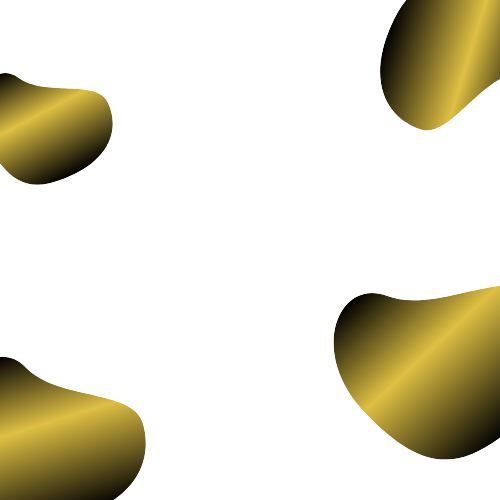
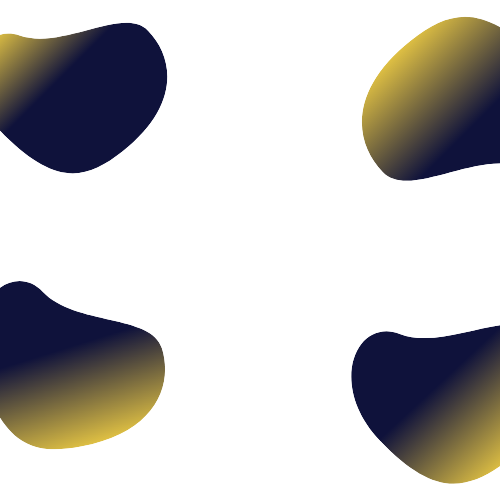
CSS: 추가본

diff --git a/portfolio/style.css b/portfolio/style.css
@@ -177,9 +177,83 @@ p {
   background-color: var(--color-dark-yellow);
 }
 
+.work__featured {
+  padding: 50px 0 0 0;
+}
+
 .work__bar {
   width: 10%;
   height: 4px;
   background-color: #f4f3ee;
-  margin: 10px auto;
+  margin: 30px auto;
+}
+
+.work__projects {
+  display: flex;
+  justify-content: center;
+  flex-wrap: wrap;
+}
+
+.project {
+  border-radius: 30px;
+  margin: 3px;
+  background-color: azure;
+}
+
+.project__img {
+  max-width: 100%;
+  max-height: 100%;
+  align-self: center;
+}
+
+.project__description h3 {
+  font-size: 30px;
+}
+
+/* CONNECT */
+#connect {
+  background-color: #0f123b;
+}
+
+.connect__title,
+.connect__email,
+.connect__description {
+  color: var(--color-white);
+}
+
+.connect__title {
+  font-size: 35px;
+}
+
+.connect__email {
+  font-size: 20px;
+  padding: 10px 0 0;
+}
+
+.connect__email span {
+  color: var(--color-dark-yellow);
+}
+
+.connect__links {
+  font-size: 30px;
+  margin: 24px 0;
+  transition: all var(--animation-duration) ease-in;
+}
+.connect__links a {
+  color: var(--color-white);
+}
+
+.connect__links a:hover {
+  color: var(--color-dark-yellow);
+  transition: var(--animation-duration);
+}
+
+.connect__links i {
+  background-color: #4f4e5f;
+  border-radius: 50%;
+  padding: 5px;
+}
+
+.connect__links i:hover {
+  transform: scale(1.1);
 }

diff --git a/portfolio/index.html b/portfolio/index.html
@@ -108,8 +108,8 @@
         <h1 class="connect__title">
             Let's Connect!
         </h1>
-        <h2>
-            If you're interested in working with me, feel free to reach out to me at <span class="connect__email">iseungmin044@gamil.com</span>
+        <h2 class="connect__email">
+            If you're interested in working with me, feel free to reach out to me at <span>iseungmin044@gamil.com</span>
         </h2>
         <div class="connect__links">
             <a href="https://blog.naver.com/dltmdals3785" target="blank">
